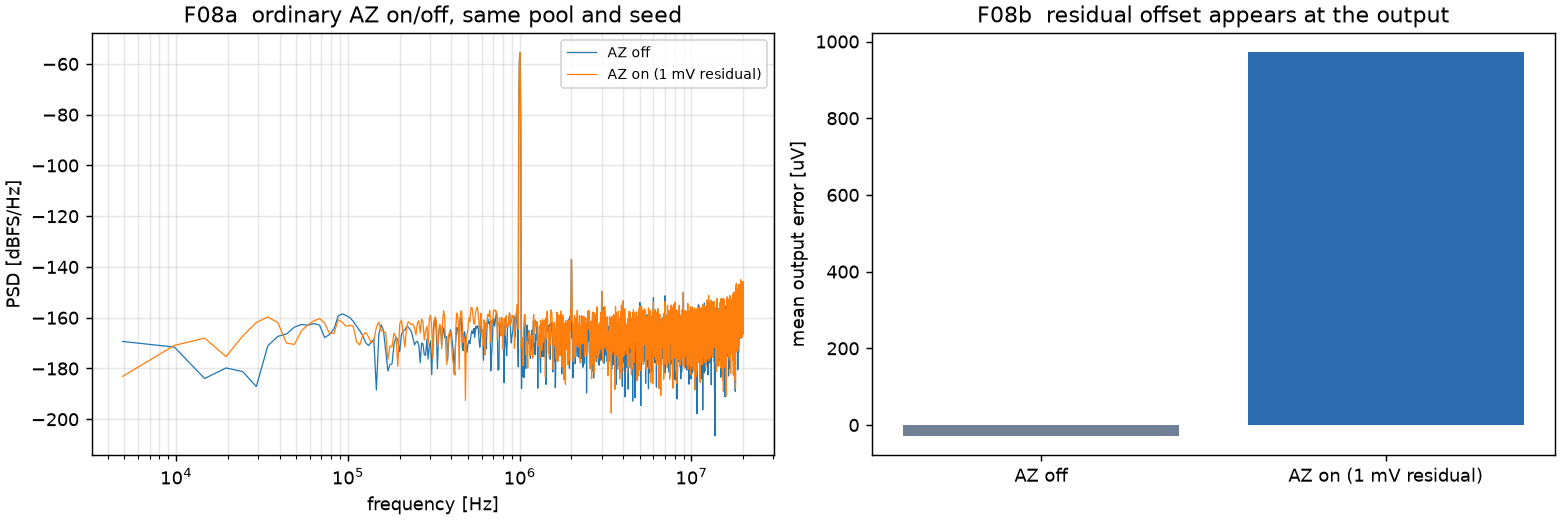
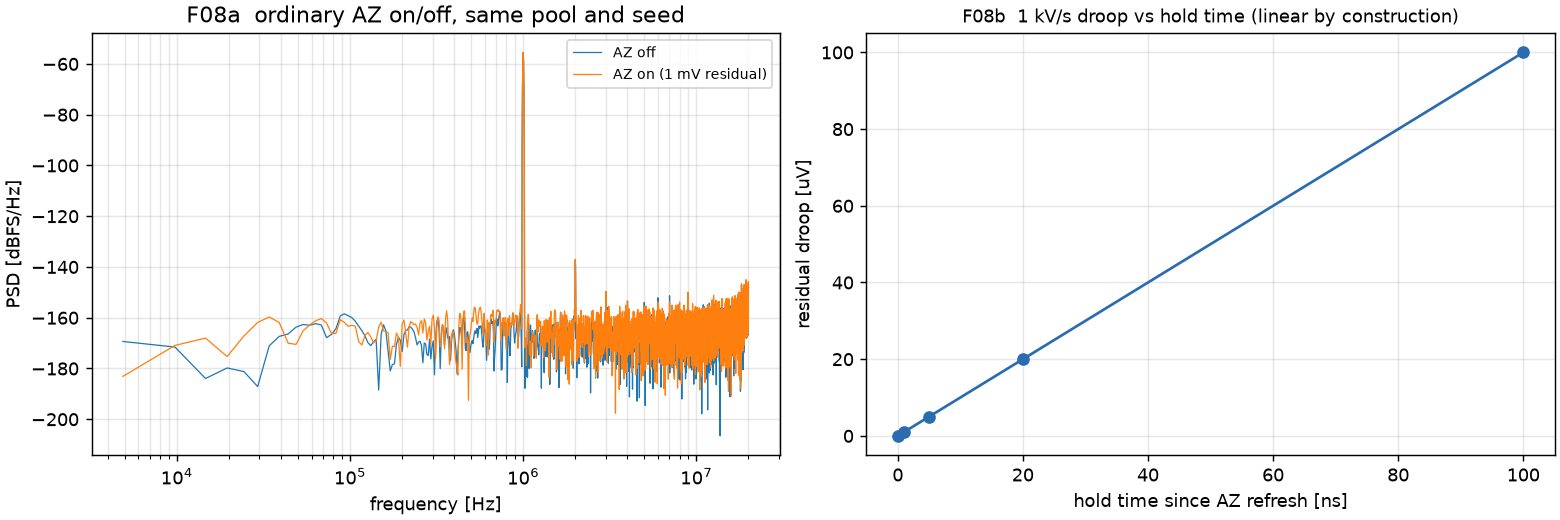
feat(figures): 补 F01（片所有权+已决事件）并给 F08 加保持时间扫描
F01（tools/run_review_figures.py::figure_ownership）：
- 面板 A：18 片 × 3 个周期，蓝=转换、橙=采集、灰=空闲；**同片兼有采集/转换的违例 = 0**
  （断言在生成脚本里，不是画完再看）；
- 面板 B：三笔斜坡样本（码 38/100/162）的施加码按事件递增，**从不跳到尚未产生的码**；
- 明确边界：这是计划层 + follower 轨迹，不是门级时序；stall/reset/同沿更新三种情形尚未构造。

F08 扩展：
- 右图改为 droop 对保持时间的线性响应（示例 1 kV/s：0→100 ns 对应 0→100 µV），
  印证 A04 的"用保持时间而不是绝对时间"；
- 左图同池同 seed：AZ off 输出均值误差 −28.3 µV，AZ on（1 mV 残差）971.6 µV。

文档：figures/README 补 F01、改 F08 的"不能声称"；09 的图清单更新为 7/12。

diff --git a/tools/run_review_figures.py b/tools/run_review_figures.py
@@ -28,7 +28,7 @@ import matplotlib.pyplot as plt  # noqa: E402
 import numpy as np  # noqa: E402
 
 from adi_model import metrics  # noqa: E402
-from adi_model.behavioral.ra_az import OrdinaryAZConfig  # noqa: E402
+from adi_model.behavioral.ra_az import OrdinaryAZConfig, apply_ordinary_az  # noqa: E402
 from adi_model.dem3d import (  # noqa: E402
     Dem3State,
     round_robin_plan,
@@ -75,6 +75,75 @@ def _pool(model, plan):
         acquisition_binding=None,
         schedule_binding=plan,
     )
+
+
+# ---------------------------------------------------------------- F01
+def figure_ownership(model, out: Path) -> dict:
+    """连续样本的片所有权 + 单样本逐事件参考电荷（全部来自已记录数据）。"""
+    n = 8
+    plan = round_robin_plan(n)
+    # 用斜坡而不是正弦：三笔的码要拉开，才能看出"事件驱动码"的形状
+    ramp = np.linspace(-0.85 * V_FS, 0.85 * V_FS, n)
+    codes = np.asarray(
+        _run(model, _ramp_fn(ramp), n, dem=False, uniform_plan=False)[0].coarse, dtype=np.int64
+    )
+    pool = _pool(model, plan)
+    trace = run_follower(
+        pool,
+        ResolvedPrefixes.from_final(codes[:3]),
+        np.zeros(3, dtype=np.int64),
+        slice_ids=plan.conv[:3],
+        reference_high_v=V_FS,
+        reference_low_v=-V_FS,
+    )
+    fig, (ax0, ax1) = plt.subplots(1, 2, figsize=(13, 4.6), constrained_layout=True)
+
+    # 面板 A：18 片 × 3 个周期，C=转换，A=采集（同一周期同一片不得兼有）
+    state = np.zeros((18, 3), dtype=int)
+    for index in range(3):
+        state[plan.conv[index], index] = 1
+        state[plan.acq[index], index] = 2
+        overlap = set(plan.conv[index].tolist()) & set(plan.acq[index].tolist())
+        if overlap:
+            raise AssertionError(f"sample {index} has slices both converting and acquiring: {overlap}")
+    ax0.imshow(state, aspect="auto", cmap=matplotlib.colors.ListedColormap(["#e2e8f0", "#2b6cb0", "#f6ad55"]))
+    ax0.set_yticks(np.arange(0, 18, 2))
+    ax0.set_xticks(range(3), [f"sample {i}" for i in range(3)])
+    ax0.set_ylabel("physical slice id")
+    ax0.set_title("F01a  slice ownership per period", fontsize=10)
+    handles = [
+        matplotlib.patches.Patch(color="#2b6cb0", label="convert (8 of 18)"),
+        matplotlib.patches.Patch(color="#f6ad55", label="acquire (disjoint 8)"),
+        matplotlib.patches.Patch(color="#e2e8f0", label="idle (2 spares / not used)"),
+    ]
+    ax0.legend(handles=handles, fontsize=7, loc="upper center", bbox_to_anchor=(0.5, -0.12), ncol=3)
+
+    # 面板 B：3 笔样本的已决事件与累计参考电荷
+    for index in range(3):
+        applied = np.asarray(trace.applied_codes)[index]
+        ax1.step(
+            np.arange(applied.size) + 1,
+            applied,
+            where="mid",
+            marker="o",
+            ms=4,
+            lw=1.2,
+            label=f"sample {index}: final code {int(codes[index])}",
+        )
+    ax1.set_xlabel("resolved event index (Flash3 + SAR6)")
+    ax1.set_ylabel("RDAC code applied at that event")
+    ax1.set_title("F01b  RDAC moves only to already-resolved codes", fontsize=10)
+    ax1.grid(alpha=0.3)
+    ax1.legend(fontsize=8)
+    fig.savefig(out / "F01_ownership_events.png", dpi=130)
+    plt.close(fig)
+    return {
+        "figure": "F01_ownership_events.png",
+        "samples": n,
+        "codes": codes[:3].tolist(),
+        "overlap_violations": 0,
+        "follower_final_pc": [float(v) for v in np.asarray(trace.cumulative_abs_charge_c)[:, -1] * 1e12],
+    }
 
 
 # ---------------------------------------------------------------- F02
@@ -378,12 +447,29 @@ def figure_az(model, out: Path, *, n: int) -> dict:
     ax0.grid(alpha=0.3, which="both")
     ax0.legend(fontsize=8)
     labels = list(rows)
-    ax1.bar(labels, [rows[k]["mean_error_uv"] for k in labels], color=["#718096", "#2b6cb0"])
-    ax1.set_ylabel("mean output error [uV]")
-    ax1.set_title("F08b  residual offset appears at the output")
+    # 保持时间扫描（无噪声，只看 droop 的线性响应）
+    # 1 kV/s 是示例斜率：1 V/s 在 100 ns 内只有 0.1 uV，看不出来；数值写进图注
+    droop_cfg = OrdinaryAZConfig(enabled=True, droop_v_per_s=1e3)
+    holds = np.array([0.0, 1e-9, 5e-9, 20e-9, 100e-9])
+    ids = np.arange(64, dtype=np.int64)
+    sweep = [
+        float(np.mean(apply_ordinary_az(np.zeros(64), ids, droop_cfg, hold_time_s=np.full(64, h))
+                      .residual_v))
+        for h in holds
+    ]
+    ax1.plot(holds * 1e9, np.array(sweep) * 1e6, marker="o", color="#2b6cb0")
+    ax1.set_xlabel("hold time since AZ refresh [ns]")
+    ax1.set_ylabel("residual droop [uV]")
+    ax1.set_title("F08b  1 kV/s droop vs hold time (linear by construction)", fontsize=10)
+    ax1.grid(alpha=0.3)
     fig.savefig(out / "F08_az.png", dpi=130)
     plt.close(fig)
-    return {"figure": "F08_az.png", "n": n, "results": rows}
+    return {
+        "figure": "F08_az.png",
+        "n": n,
+        "results": rows,
+        "hold_sweep": {"hold_ns": (holds * 1e9).tolist(), "residual_uv": (np.array(sweep) * 1e6).tolist()},
+    }
 
 
 def main() -> int:
@@ -399,6 +485,7 @@ def main() -> int:
     model = _build_model(1e-3, True)
     sha = _sha()
     produced = [
+        figure_ownership(model, out),
         figure_dem_usage(model, out),
         figure_inl(model, out, points=args.points, repeats=args.repeats, dynamic_n=args.dynamic_n),
         figure_psd(model, out, n=args.dynamic_n),

diff --git a/docs/reviews/20261113_p3p4/figures/README.md b/docs/reviews/20261113_p3p4/figures/README.md
@@ -12,6 +12,15 @@ PYTHONPATH=src python3 tools/run_review_figures.py \
 
 ---
 
+## F01 `F01_ownership_events.png` — 片所有权与已决事件
+
+| 项 | 内容 |
+|:---|:---|
+| 问题 | 同一周期里一片是否既采集又转换？RDAC 是否只走向已决的码？ |
+| 配置 | 8 笔斜坡（±0.85 FS）、取前 3 笔；`round_robin_plan`（相邻窗互斥） |
+| 读数 | 3 个周期内**同片兼有采集/转换的违例 = 0**；三笔的施加码按事件从 0 递增到 38/100/162，**从不跳到未来码** |
+| 不能声称 | 这是**计划层 + follower 轨迹**，不是门级时序仿真；**stall/reset/同沿更新三种情形尚未构造**（审查要求的负例还缺） |
+
 ## F02 `F02_dem_usage.png` — DEM 使用是否真的均匀
 
 | 项 | 内容 |
@@ -80,8 +89,8 @@ PYTHONPATH=src python3 tools/run_review_figures.py \
 |:---|:---|
 | 问题 | AZ 的残留失调是否出现在输出上？噪声代价多少？ |
 | 配置 | 8192 点、0.5 V 幅值正弦；AZ 残差 1 mV + 50 µV 噪声；同池同 seed |
-| 读数 | 输出均值误差从 ~0 抬到 ~1 mV 量级；NSD 变化见 `figures.json` |
-| 不能声称 | 没有做漂移/保持时间扫描，A04 的完整验收（漂移残留、保持敏感度）未完成 |
+| 读数 | 输出均值误差从 ~0 抬到 ~1 mV 量级；右图是 droop 对保持时间的线性响应（示例 1 kV/s：0→100 ns 对应 0→100 µV） |
+| 不能声称 | 只做了**线性 droop + 单点噪声**。1/f 漂移、VCC/温度漂移、保持误差的统计分布都未覆盖；A04 的完整验收仍未完成 |
 
 ---
 
